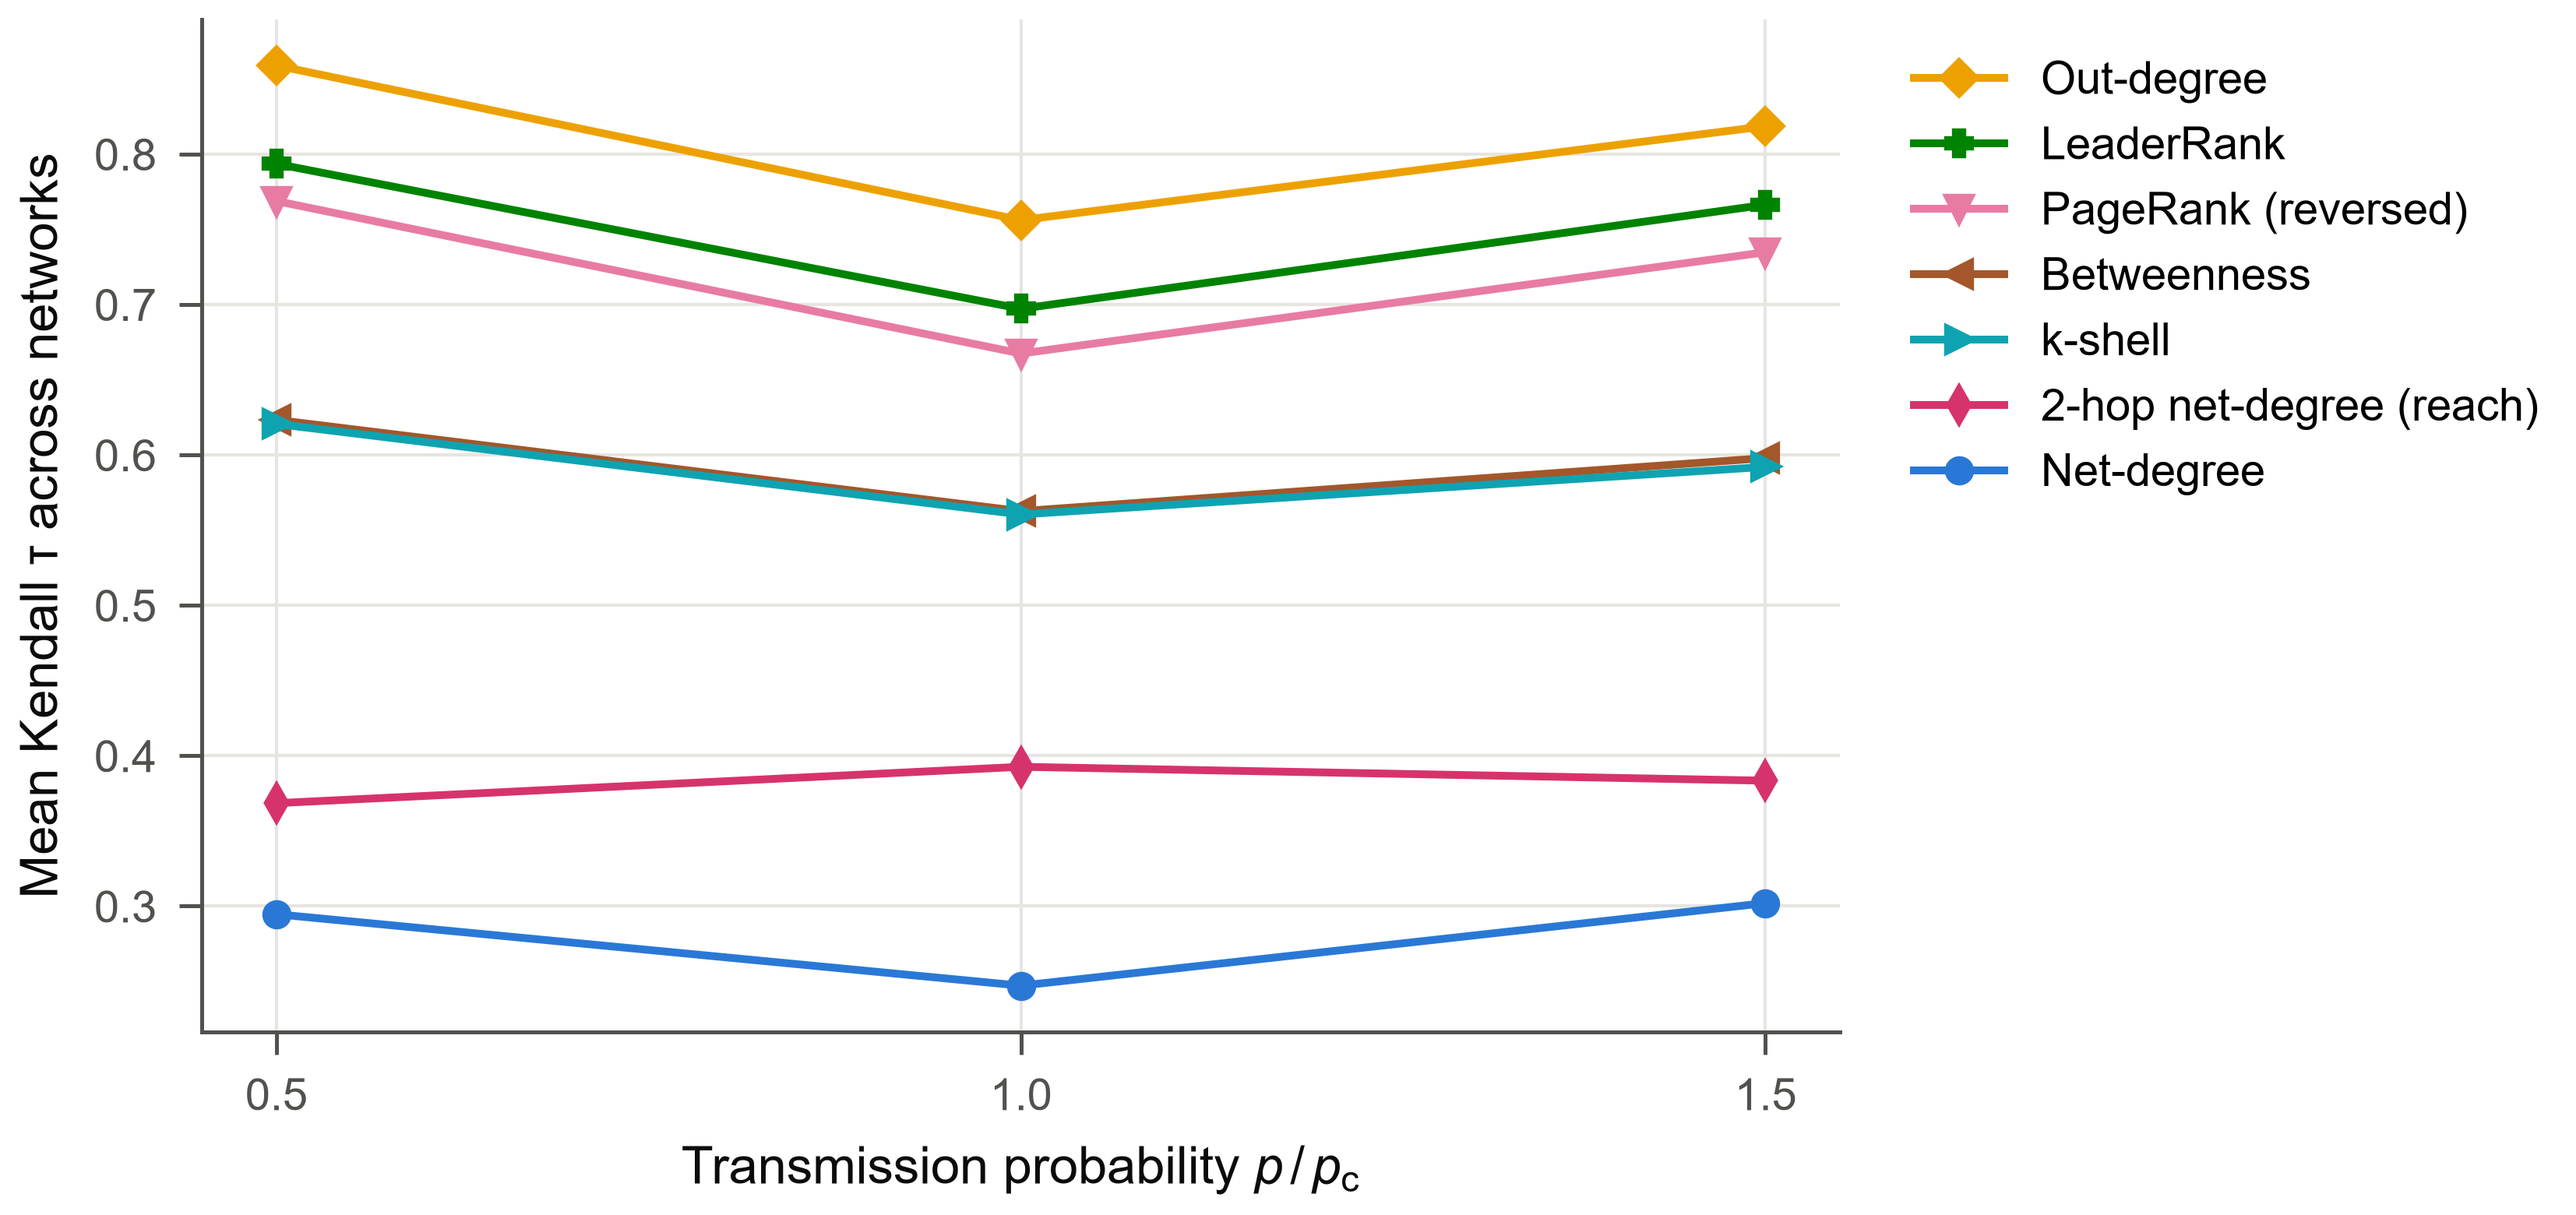
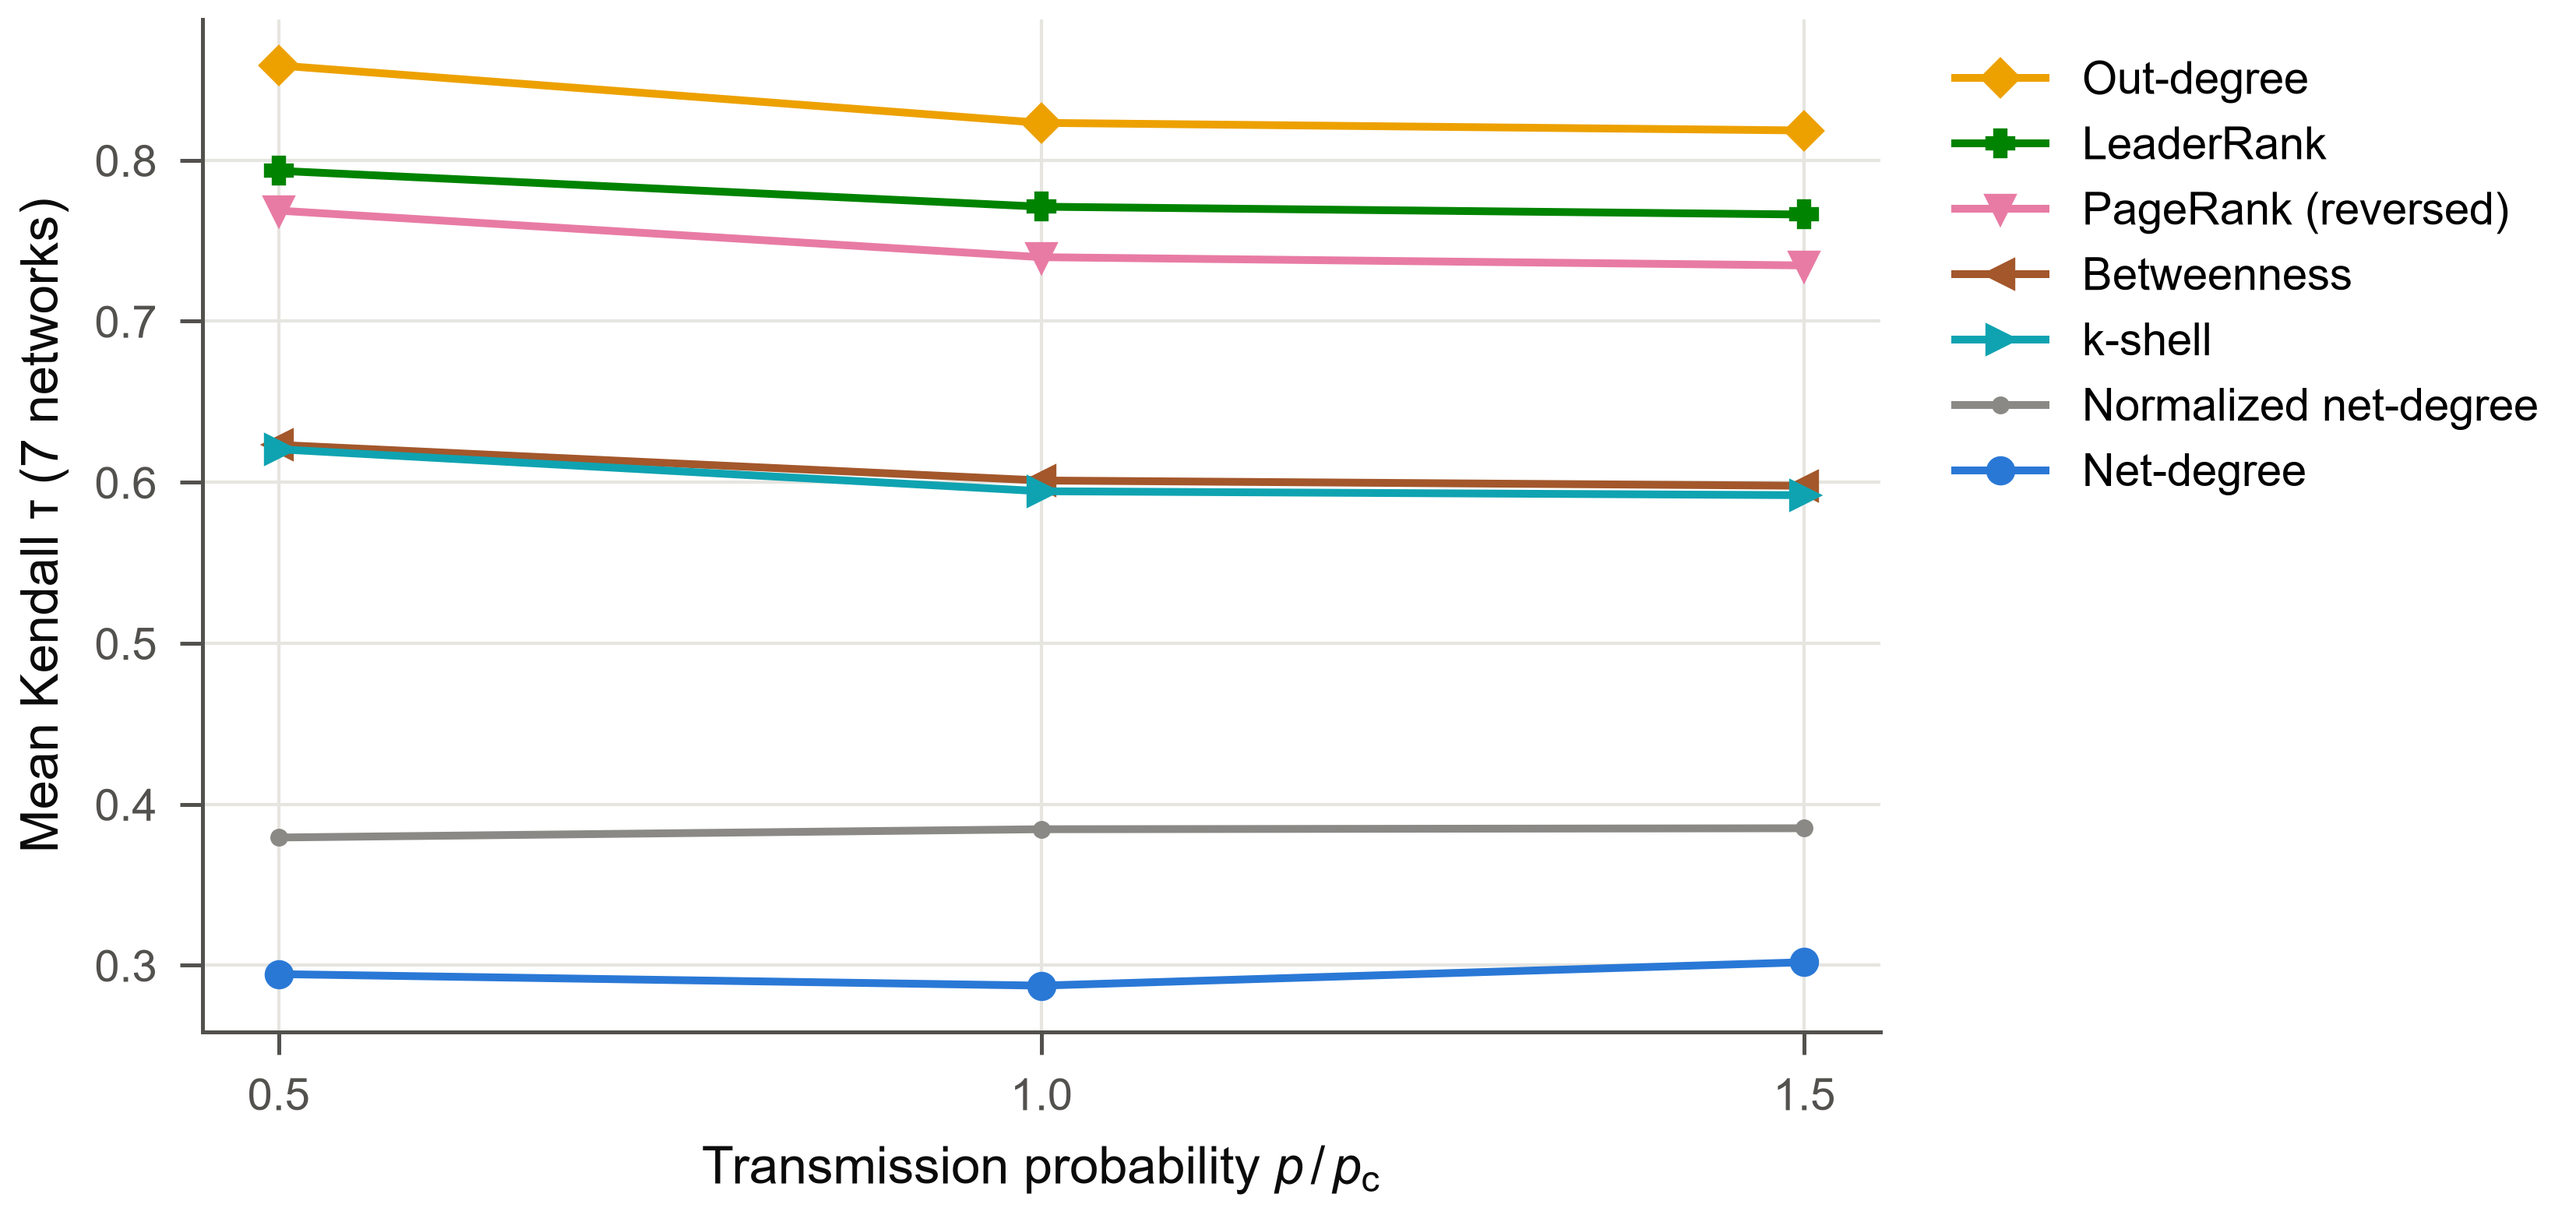
Average fig5 over networks evaluated at every p/p_c
Quick-mode networks were run at IC p = p_c only, so they entered the
1.0x point but not 0.5x or 1.5x. That composition change produced a
spurious dip at p_c; on a consistent set of seven full-mode networks the
curves are nearly flat. The y label now states the network count.

diff --git a/make_figures.py b/make_figures.py
@@ -309,6 +309,11 @@ def fig5(results, figs, tau):
     d = tau[(tau.model == "IC") & tau.p_over_pc.notna()]
     if not len(d):
         return print("  skip fig5")
+    # Average only over networks evaluated at every p/p_c: quick-mode networks have IC at
+    # p_c only, and mixing them into the p_c point alone fakes a dip there.
+    n_levels = d.p_over_pc.nunique()
+    complete = d.groupby("net").p_over_pc.nunique()
+    d = d[d.net.isin(complete[complete == n_levels].index)]
     mean = d.groupby(["measure", "p_over_pc"]).tau.mean().unstack()
     top = mean.mean(axis=1).sort_values(ascending=False).index[:6]
     top = list(top) + [m for m in ("netdegree", "out_degree") if m not in top]
@@ -316,7 +321,7 @@ def fig5(results, figs, tau):
     for m in top:
         ax.plot(mean.columns, mean.loc[m], marker=mk(m), color=col(m), label=lab(m))
     ax.set_xlabel(r"Transmission probability $p\,/\,p_\mathrm{c}$")
-    ax.set_ylabel("Mean Kendall τ across networks")
+    ax.set_ylabel(f"Mean Kendall τ ({d.net.nunique()} networks)")
     ax.set_xticks(list(mean.columns))
     ax.legend(loc="upper left", bbox_to_anchor=(1.02, 1.0))
     save(fig, figs, "fig5_tau_vs_p")
